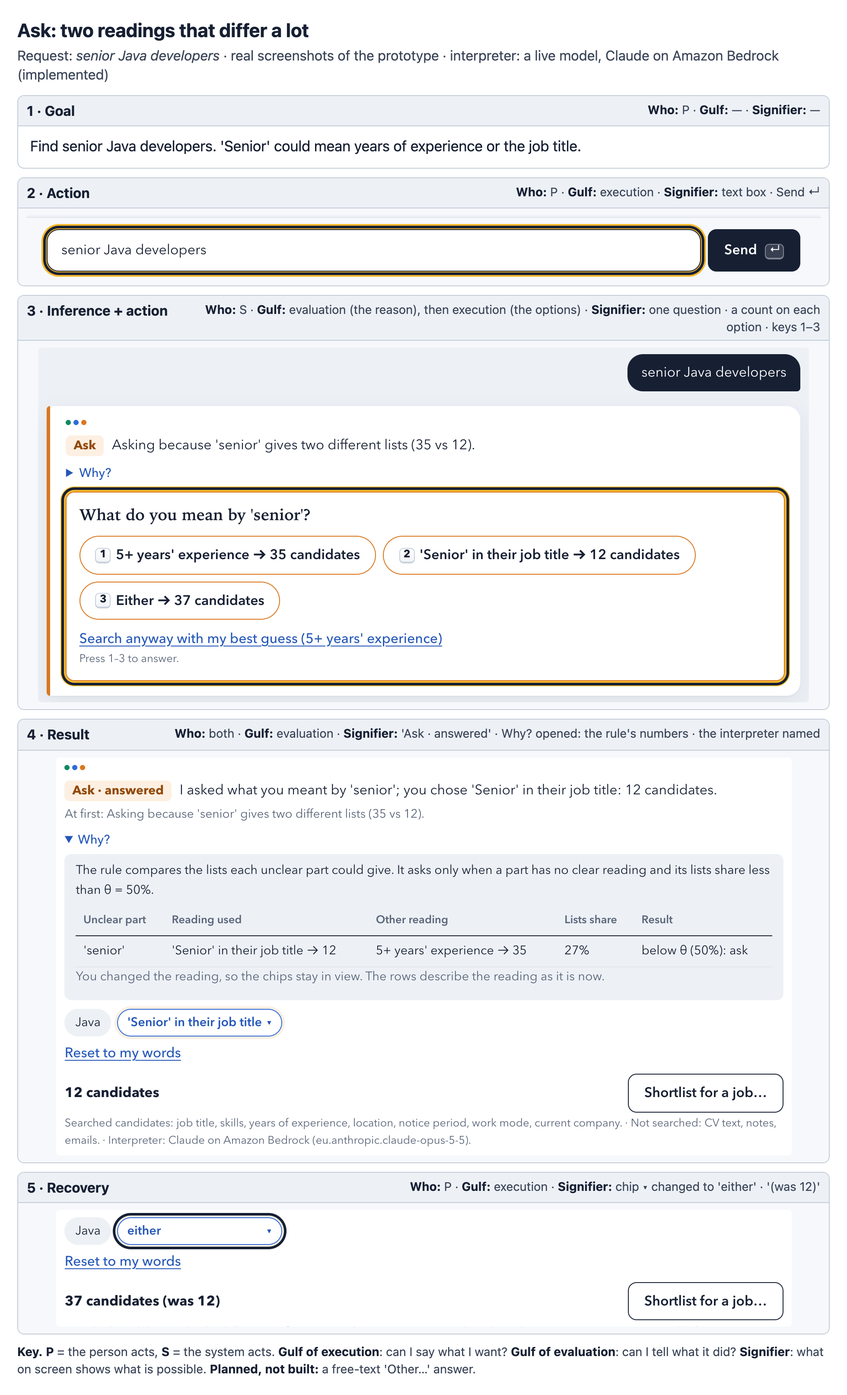
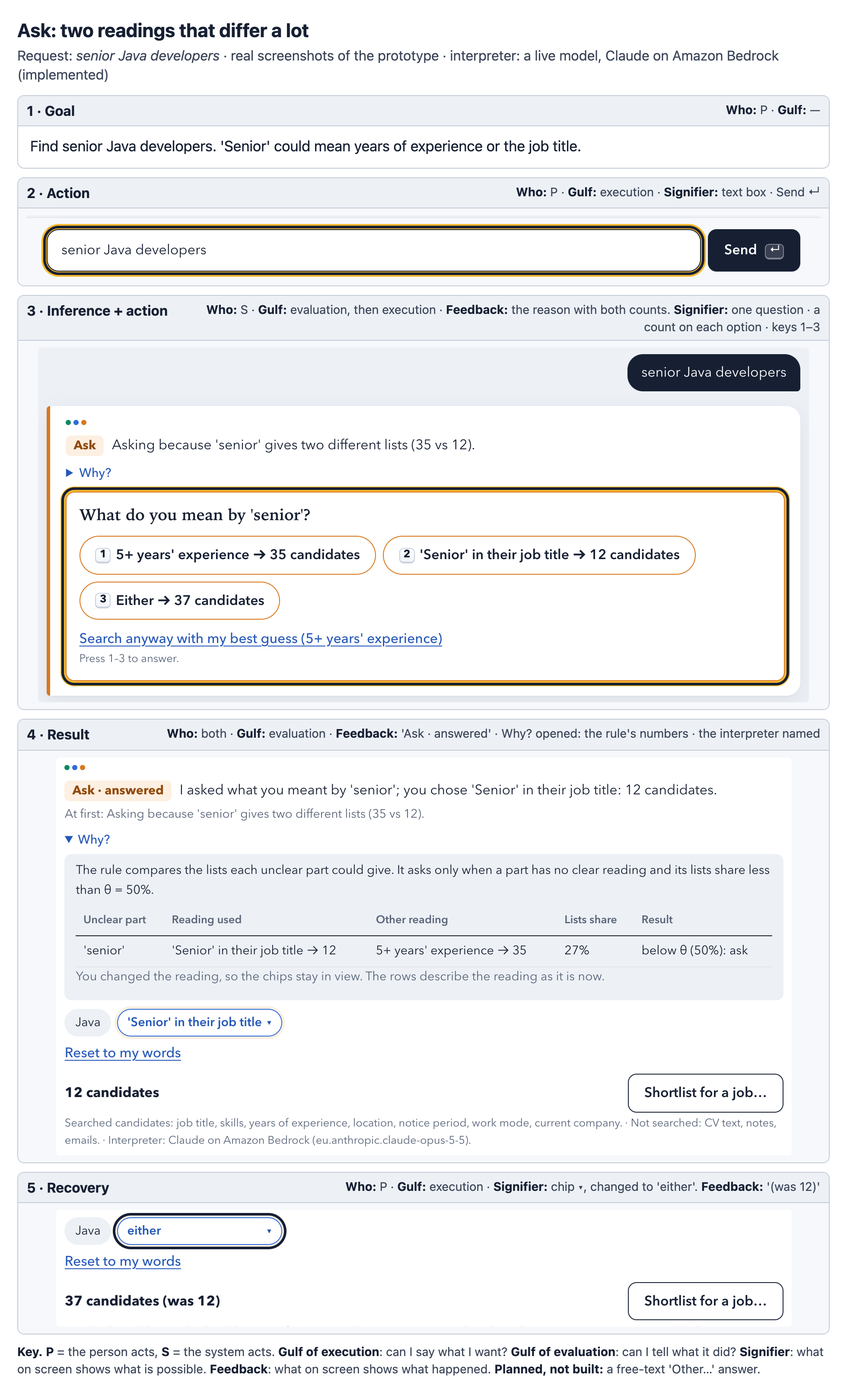
docs: storyboard labels separate signifier from feedback; who ran each check (#79)
Frames whose gulf is evaluation now list feedback, not signifiers (W2 L06). The README says the tests, lint and scripted browser checks were run by the assistant, that the frames are cropped screenshots, and links the pull request for stage 10. Refs #77.

diff --git a/docs/storyboards/storyboard-ask.html b/docs/storyboards/storyboard-ask.html
@@ -14,7 +14,7 @@ img { display: block; max-width: 100%; height: auto; border-radius: 4px; }
 </style></head><body><h1>Ask: two readings that differ a lot</h1>
 <p class="req">Request: <em>senior Java developers</em> · real screenshots of the prototype ·
 interpreter: a live model, Claude on Amazon Bedrock (implemented)</p>
-<div class="grid"><div class="frame"><div class="head"><b>1 · Goal</b><span class="tags"><b>Who:</b> P · <b>Gulf:</b> — · <b>Signifier:</b> —</span></div><div class="goal">Find senior Java developers. &#x27;Senior&#x27; could mean years of experience or the job title.</div></div><div class="frame"><div class="head"><b>2 · Action</b><span class="tags"><b>Who:</b> P · <b>Gulf:</b> execution · <b>Signifier:</b> text box · Send ↵</span></div><div class="shot"><img src="frames/ask-2-action.png" width="920" alt="Action"></div></div><div class="frame"><div class="head"><b>3 · Inference + action</b><span class="tags"><b>Who:</b> S · <b>Gulf:</b> evaluation (the reason), then execution (the options) · <b>Signifier:</b> one question · a count on each option · keys 1–3</span></div><div class="shot"><img src="frames/ask-3-system.png" width="892" alt="Inference + action"></div></div><div class="frame"><div class="head"><b>4 · Result</b><span class="tags"><b>Who:</b> both · <b>Gulf:</b> evaluation · <b>Signifier:</b> &#x27;Ask · answered&#x27; · Why? opened: the rule&#x27;s numbers · the interpreter named</span></div><div class="shot"><img src="frames/ask-4-result.png" width="851" alt="Result"></div></div><div class="frame"><div class="head"><b>5 · Recovery</b><span class="tags"><b>Who:</b> P · <b>Gulf:</b> execution · <b>Signifier:</b> chip ▾ changed to &#x27;either&#x27; · &#x27;(was 12)&#x27;</span></div><div class="shot"><img src="frames/ask-5-recovery.png" width="851" alt="Recovery"></div></div></div>
+<div class="grid"><div class="frame"><div class="head"><b>1 · Goal</b><span class="tags"><b>Who:</b> P · <b>Gulf:</b> —</span></div><div class="goal">Find senior Java developers. &#x27;Senior&#x27; could mean years of experience or the job title.</div></div><div class="frame"><div class="head"><b>2 · Action</b><span class="tags"><b>Who:</b> P · <b>Gulf:</b> execution · <b>Signifier:</b> text box · Send ↵</span></div><div class="shot"><img src="frames/ask-2-action.png" width="920" alt="Action"></div></div><div class="frame"><div class="head"><b>3 · Inference + action</b><span class="tags"><b>Who:</b> S · <b>Gulf:</b> evaluation, then execution · <b>Feedback:</b> the reason with both counts. <b>Signifier:</b> one question · a count on each option · keys 1–3</span></div><div class="shot"><img src="frames/ask-3-system.png" width="892" alt="Inference + action"></div></div><div class="frame"><div class="head"><b>4 · Result</b><span class="tags"><b>Who:</b> both · <b>Gulf:</b> evaluation · <b>Feedback:</b> &#x27;Ask · answered&#x27; · Why? opened: the rule&#x27;s numbers · the interpreter named</span></div><div class="shot"><img src="frames/ask-4-result.png" width="851" alt="Result"></div></div><div class="frame"><div class="head"><b>5 · Recovery</b><span class="tags"><b>Who:</b> P · <b>Gulf:</b> execution · <b>Signifier:</b> chip ▾, changed to &#x27;either&#x27;. <b>Feedback:</b> &#x27;(was 12)&#x27;</span></div><div class="shot"><img src="frames/ask-5-recovery.png" width="851" alt="Recovery"></div></div></div>
 <p class="key"><b>Key.</b> <b>P</b> = the person acts, <b>S</b> = the system acts. <b>Gulf of execution</b>: can I say
 what I want? <b>Gulf of evaluation</b>: can I tell what it did? <b>Signifier</b>: what on screen shows what is
-possible. <b>Planned, not built:</b> a free-text 'Other…' answer.</p></body></html>
+possible. <b>Feedback</b>: what on screen shows what happened. <b>Planned, not built:</b> a free-text 'Other…' answer.</p></body></html>

diff --git a/docs/storyboards/storyboard-write.html b/docs/storyboards/storyboard-write.html
@@ -14,7 +14,7 @@ img { display: block; max-width: 100%; height: auto; border-radius: 4px; }
 </style></head><body><h1>Act, then a change to records: confirmed, then undone</h1>
 <p class="req">Request: <em>Java developers in London → shortlist them for the Senior Backend Engineer role</em> · real screenshots of the prototype ·
 interpreter: rule-based stand-in (simulated)</p>
-<div class="grid"><div class="frame"><div class="head"><b>1 · Goal</b><span class="tags"><b>Who:</b> P · <b>Gulf:</b> — · <b>Signifier:</b> —</span></div><div class="goal">Put the Java developers in London on one job&#x27;s shortlist, and change nothing else.</div></div><div class="frame"><div class="head"><b>2 · Action</b><span class="tags"><b>Who:</b> S, then P · <b>Gulf:</b> evaluation, then execution · <b>Signifier:</b> Act tag and its reason · 21 candidates · text box (a follow-up, not a new search)</span></div><div class="shot"><img src="frames/write-2-action.png" width="920" alt="Action"></div></div><div class="frame"><div class="head"><b>3 · Inference + action</b><span class="tags"><b>Who:</b> S · <b>Gulf:</b> evaluation · <b>Signifier:</b> job chosen · every change listed · Cancel focused</span></div><div class="shot"><img src="frames/write-3-system.png" width="576" alt="Inference + action"></div></div><div class="frame"><div class="head"><b>4 · Result</b><span class="tags"><b>Who:</b> S · <b>Gulf:</b> evaluation · <b>Signifier:</b> what was confirmed · the result only · Undo</span></div><div class="shot"><img src="frames/write-4-result.png" width="892" alt="Result"></div></div><div class="frame"><div class="head"><b>5 · Recovery</b><span class="tags"><b>Who:</b> P · <b>Gulf:</b> execution · <b>Signifier:</b> Undo</span></div><div class="shot"><img src="frames/write-5-recovery.png" width="892" alt="Recovery"></div></div></div>
+<div class="grid"><div class="frame"><div class="head"><b>1 · Goal</b><span class="tags"><b>Who:</b> P · <b>Gulf:</b> —</span></div><div class="goal">Put the Java developers in London on one job&#x27;s shortlist, and change nothing else.</div></div><div class="frame"><div class="head"><b>2 · Action</b><span class="tags"><b>Who:</b> S, then P · <b>Gulf:</b> evaluation, then execution · <b>Feedback:</b> Act tag and its reason · 21 candidates. <b>Signifier:</b> text box (a follow-up)</span></div><div class="shot"><img src="frames/write-2-action.png" width="920" alt="Action"></div></div><div class="frame"><div class="head"><b>3 · Inference + action</b><span class="tags"><b>Who:</b> S · <b>Gulf:</b> evaluation, then execution · <b>Feedback:</b> job chosen · every change listed. <b>Signifier:</b> Cancel (focused) · Shortlist 21 candidates</span></div><div class="shot"><img src="frames/write-3-system.png" width="576" alt="Inference + action"></div></div><div class="frame"><div class="head"><b>4 · Result</b><span class="tags"><b>Who:</b> S · <b>Gulf:</b> evaluation · <b>Feedback:</b> what was confirmed · the result only. <b>Signifier:</b> Undo</span></div><div class="shot"><img src="frames/write-4-result.png" width="892" alt="Result"></div></div><div class="frame"><div class="head"><b>5 · Recovery</b><span class="tags"><b>Who:</b> P · <b>Gulf:</b> execution · <b>Signifier:</b> Undo (used). <b>Feedback:</b> what was undone</span></div><div class="shot"><img src="frames/write-5-recovery.png" width="892" alt="Recovery"></div></div></div>
 <p class="key"><b>Key.</b> <b>P</b> = the person acts, <b>S</b> = the system acts. <b>Gulf of execution</b>: can I say
 what I want? <b>Gulf of evaluation</b>: can I tell what it did? <b>Signifier</b>: what on screen shows what is
-possible.</p></body></html>
+possible. <b>Feedback</b>: what on screen shows what happened.</p></body></html>

diff --git a/docs/storyboards/storyboard-show.html b/docs/storyboards/storyboard-show.html
@@ -14,7 +14,7 @@ img { display: block; max-width: 100%; height: auto; border-radius: 4px; }
 </style></head><body><h1>Show: the request that started the project</h1>
 <p class="req">Request: <em>Python and AWS people with Senior in the title</em> · real screenshots of the prototype ·
 interpreter: rule-based stand-in (simulated)</p>
-<div class="grid"><div class="frame"><div class="head"><b>1 · Goal</b><span class="tags"><b>Who:</b> P · <b>Gulf:</b> — · <b>Signifier:</b> —</span></div><div class="goal">Find people with Python and AWS whose job title says Senior. (An assistant once widened this &#x27;and&#x27; to OR without saying so.)</div></div><div class="frame"><div class="head"><b>2 · Action</b><span class="tags"><b>Who:</b> P · <b>Gulf:</b> execution · <b>Signifier:</b> text box · Send ↵</span></div><div class="shot"><img src="frames/show-2-action.png" width="920" alt="Action"></div></div><div class="frame"><div class="head"><b>3 · Inference + action</b><span class="tags"><b>Who:</b> S · <b>Gulf:</b> evaluation · <b>Signifier:</b> Show tag · reason with both counts · AND ⇄ OR chip</span></div><div class="shot"><img src="frames/show-3-system.png" width="892" alt="Inference + action"></div></div><div class="frame"><div class="head"><b>4 · Result</b><span class="tags"><b>Who:</b> S · <b>Gulf:</b> evaluation · <b>Signifier:</b> 7 candidates · what was not searched</span></div><div class="shot"><img src="frames/show-4-result.png" width="851" alt="Result"></div></div><div class="frame"><div class="head"><b>5 · Recovery</b><span class="tags"><b>Who:</b> P · <b>Gulf:</b> execution · <b>Signifier:</b> AND ⇄ OR chip · &#x27;(was 7)&#x27;</span></div><div class="shot"><img src="frames/show-5-recovery.png" width="851" alt="Recovery"></div></div></div>
+<div class="grid"><div class="frame"><div class="head"><b>1 · Goal</b><span class="tags"><b>Who:</b> P · <b>Gulf:</b> —</span></div><div class="goal">Find people with Python and AWS whose job title says Senior. (An assistant once widened this &#x27;and&#x27; to OR without saying so.)</div></div><div class="frame"><div class="head"><b>2 · Action</b><span class="tags"><b>Who:</b> P · <b>Gulf:</b> execution · <b>Signifier:</b> text box · Send ↵</span></div><div class="shot"><img src="frames/show-2-action.png" width="920" alt="Action"></div></div><div class="frame"><div class="head"><b>3 · Inference + action</b><span class="tags"><b>Who:</b> S · <b>Gulf:</b> evaluation · <b>Feedback:</b> Show tag · the reason with both counts. <b>Signifier:</b> AND ⇄ OR chip</span></div><div class="shot"><img src="frames/show-3-system.png" width="892" alt="Inference + action"></div></div><div class="frame"><div class="head"><b>4 · Result</b><span class="tags"><b>Who:</b> S · <b>Gulf:</b> evaluation · <b>Feedback:</b> 7 candidates (first 4 rows shown) · what was not searched</span></div><div class="shot"><img src="frames/show-4-result.png" width="851" alt="Result"></div></div><div class="frame"><div class="head"><b>5 · Recovery</b><span class="tags"><b>Who:</b> P · <b>Gulf:</b> execution · <b>Signifier:</b> AND ⇄ OR chip. <b>Feedback:</b> &#x27;(was 7)&#x27;</span></div><div class="shot"><img src="frames/show-5-recovery.png" width="851" alt="Recovery"></div></div></div>
 <p class="key"><b>Key.</b> <b>P</b> = the person acts, <b>S</b> = the system acts. <b>Gulf of execution</b>: can I say
 what I want? <b>Gulf of evaluation</b>: can I tell what it did? <b>Signifier</b>: what on screen shows what is
-possible.</p></body></html>
+possible. <b>Feedback</b>: what on screen shows what happened.</p></body></html>

diff --git a/docs/storyboards/make_storyboards.py b/docs/storyboards/make_storyboards.py
@@ -4,9 +4,11 @@
 
 Each storyboard has five frames (W2 L06): the goal, the person's action, the system's inference and
 action, the result, and recovery. Each frame is labelled with who acts (P = person, S = system), the
-gulf involved, and the signifier on screen. The frames are unedited screenshots of the running
-prototype (θ = 0.5, fresh state), taken at twice the pixel density. Two storyboards use the default
-rule-based stand-in; the ask storyboard uses a live model (Claude through Amazon Bedrock), and its
+gulf involved, and what is on screen: a signifier (what is possible) where the gulf is execution,
+feedback (what happened) where it is evaluation. The frames are screenshots of the running prototype
+(θ = 0.5, fresh state), cropped to the step and not otherwise edited, at twice the pixel density.
+Two storyboards use the default rule-based stand-in; the ask storyboard uses a live model (Claude
+through Amazon Bedrock), and its
 result frame shows the interpreter line the page prints. The frames are stacked in one column so the
 text stays readable on a portrait A4 page. Open each HTML file and save it as PNG at twice the pixel
 density; the PNGs in this folder were captured that way.
@@ -23,34 +25,39 @@ STORYBOARDS = {
     "show": ("Show: the request that started the project", "Python and AWS people with Senior in the title",
              STAND_IN, "", [
         ("Goal", "Find people with Python and AWS whose job title says Senior. "
-                 "(An assistant once widened this 'and' to OR without saying so.)", "P", "—", "—"),
-        ("Action", "frames/show-2-action.png", "P", "execution", "text box · Send ↵"),
+                 "(An assistant once widened this 'and' to OR without saying so.)", "P", "—", ""),
+        ("Action", "frames/show-2-action.png", "P", "execution", "Signifier: text box · Send ↵"),
         ("Inference + action", "frames/show-3-system.png", "S", "evaluation",
-         "Show tag · reason with both counts · AND ⇄ OR chip"),
-        ("Result", "frames/show-4-result.png", "S", "evaluation", "7 candidates · what was not searched"),
-        ("Recovery", "frames/show-5-recovery.png", "P", "execution", "AND ⇄ OR chip · '(was 7)'"),
+         "Feedback: Show tag · the reason with both counts. Signifier: AND ⇄ OR chip"),
+        ("Result", "frames/show-4-result.png", "S", "evaluation",
+         "Feedback: 7 candidates (first 4 rows shown) · what was not searched"),
+        ("Recovery", "frames/show-5-recovery.png", "P", "execution",
+         "Signifier: AND ⇄ OR chip. Feedback: '(was 7)'"),
     ]),
     "ask": ("Ask: two readings that differ a lot", "senior Java developers", LIVE,
             " <b>Planned, not built:</b> a free-text 'Other…' answer.", [
         ("Goal", "Find senior Java developers. 'Senior' could mean years of experience or the job title.",
-         "P", "—", "—"),
-        ("Action", "frames/ask-2-action.png", "P", "execution", "text box · Send ↵"),
-        ("Inference + action", "frames/ask-3-system.png", "S", "evaluation (the reason), then execution (the options)",
-         "one question · a count on each option · keys 1–3"),
+         "P", "—", ""),
+        ("Action", "frames/ask-2-action.png", "P", "execution", "Signifier: text box · Send ↵"),
+        ("Inference + action", "frames/ask-3-system.png", "S", "evaluation, then execution",
+         "Feedback: the reason with both counts. Signifier: one question · a count on each option · keys 1–3"),
         ("Result", "frames/ask-4-result.png", "both", "evaluation",
-         "'Ask · answered' · Why? opened: the rule's numbers · the interpreter named"),
-        ("Recovery", "frames/ask-5-recovery.png", "P", "execution", "chip ▾ changed to 'either' · '(was 12)'"),
+         "Feedback: 'Ask · answered' · Why? opened: the rule's numbers · the interpreter named"),
+        ("Recovery", "frames/ask-5-recovery.png", "P", "execution",
+         "Signifier: chip ▾, changed to 'either'. Feedback: '(was 12)'"),
     ]),
     "write": ("Act, then a change to records: confirmed, then undone",
               "Java developers in London → shortlist them for the Senior Backend Engineer role", STAND_IN, "", [
         ("Goal", "Put the Java developers in London on one job's shortlist, and change nothing else.",
-         "P", "—", "—"),
+         "P", "—", ""),
         ("Action", "frames/write-2-action.png", "S, then P", "evaluation, then execution",
-         "Act tag and its reason · 21 candidates · text box (a follow-up, not a new search)"),
-        ("Inference + action", "frames/write-3-system.png", "S", "evaluation",
-         "job chosen · every change listed · Cancel focused"),
-        ("Result", "frames/write-4-result.png", "S", "evaluation", "what was confirmed · the result only · Undo"),
-        ("Recovery", "frames/write-5-recovery.png", "P", "execution", "Undo"),
+         "Feedback: Act tag and its reason · 21 candidates. Signifier: text box (a follow-up)"),
+        ("Inference + action", "frames/write-3-system.png", "S", "evaluation, then execution",
+         "Feedback: job chosen · every change listed. Signifier: Cancel (focused) · Shortlist 21 candidates"),
+        ("Result", "frames/write-4-result.png", "S", "evaluation",
+         "Feedback: what was confirmed · the result only. Signifier: Undo"),
+        ("Recovery", "frames/write-5-recovery.png", "P", "execution",
+         "Signifier: Undo (used). Feedback: what was undone"),
     ]),
 }
 
@@ -73,7 +80,7 @@ interpreter: {interpreter}</p>
 <div class="grid">{frames}</div>
 <p class="key"><b>Key.</b> <b>P</b> = the person acts, <b>S</b> = the system acts. <b>Gulf of execution</b>: can I say
 what I want? <b>Gulf of evaluation</b>: can I tell what it did? <b>Signifier</b>: what on screen shows what is
-possible.{note}</p></body></html>"""
+possible. <b>Feedback</b>: what on screen shows what happened.{note}</p></body></html>"""
 
 
 def shown_width(path):
@@ -82,16 +89,24 @@ def shown_width(path):
         return struct.unpack(">I", f.read(24)[16:20])[0] // 2
 
 
-def frame(i, step, content, who, gulf, signifier):
-    """One labelled cell: a screenshot (or the goal in words) with who acts, the gulf and the signifier."""
+def cues(text):
+    """'Signifier: a. Feedback: b' with the two labels in bold."""
+    out = html.escape(text)
+    for label in ("Signifier:", "Feedback:"):
+        out = out.replace(label, "<b>%s</b>" % label)
+    return out
+
+
+def frame(i, step, content, who, gulf, cue):
+    """One labelled cell: a screenshot (or the goal in words) with who acts, the gulf, and what is on screen."""
     if content.endswith(".png"):
         body = ('<div class="shot"><img src="%s" width="%d" alt="%s"></div>'
                 % (content, shown_width(content), html.escape(step)))
     else:
         body = '<div class="goal">%s</div>' % html.escape(content)
+    tail = " · " + cues(cue) if cue else ""
     return ('<div class="frame"><div class="head"><b>%d · %s</b><span class="tags"><b>Who:</b> %s · '
-            '<b>Gulf:</b> %s · <b>Signifier:</b> %s</span></div>%s</div>'
-            % (i, html.escape(step), who, gulf, html.escape(signifier), body))
+            '<b>Gulf:</b> %s%s</span></div>%s</div>' % (i, html.escape(step), who, gulf, tail, body))
 
 
 if __name__ == "__main__":

diff --git a/README.md b/README.md
@@ -143,20 +143,21 @@ reading is assumed). Method, tables and limits are in [`evaluation/README.md`](e
 The starting point: an assistant over a recruitment CRM silently widened a user's "and" to OR and
 claimed a notes search it never ran. Each pull request records what changed, why, and how it was
 checked. "Review" means a Claude Code pass with the `review-change` checklist
-([#12](https://github.com/ar-pavel/ambiguity-aware-ai-search/pull/12)), followed by my own check in the browser.
+([#12](https://github.com/ar-pavel/ambiguity-aware-ai-search/pull/12)), followed by my own check in the browser. The tests, lint and scripted browser
+checks in the last column were run by the assistant.
 
 | Stage | What changed, and why | What was checked |
 |---|---|---|
 | **1. Search, reading and rule** [#9](https://github.com/ar-pavel/ambiguity-aware-ai-search/pull/9), [#10](https://github.com/ar-pavel/ambiguity-aware-ai-search/pull/10), [#11](https://github.com/ar-pavel/ambiguity-aware-ai-search/pull/11) | Explicit filters, not embeddings, so every result can be explained. A hand-set threshold, not a learned policy, because which strategy works better is the open question. | Tests for the search and the rule. The data is generated so that "senior" really is ambiguous. |
 | **2. The page and the three modes** [#13](https://github.com/ar-pavel/ambiguity-aware-ai-search/pull/13), [#14](https://github.com/ar-pavel/ambiguity-aware-ai-search/pull/14), [#19](https://github.com/ar-pavel/ambiguity-aware-ai-search/pull/19), [#20](https://github.com/ar-pavel/ambiguity-aware-ai-search/pull/20), [#21](https://github.com/ar-pavel/ambiguity-aware-ai-search/pull/21) | Act, show (editable chips) and ask (one question). A strategy switch and a θ slider give the study its conditions; every turn is logged. | A security review found that another web page could send requests to the server. It now answers only its own page. |
-| **3. Live interpreters** [#16](https://github.com/ar-pavel/ambiguity-aware-ai-search/pull/16), [#18](https://github.com/ar-pavel/ambiguity-aware-ai-search/pull/18) | The first draft used the Claude SDK. I replaced it with plain HTTPS, because the SDK needs Python 3.10+ and an install. | Review found three ways a reply could mislead the page: a skill matched inside another word, an unknown place matching nobody, a malformed reply crashing the page. Each got a test, then a fix. Faked replies test that every failure falls back to the stand-in. |
+| **3. Live interpreters** [#16](https://github.com/ar-pavel/ambiguity-aware-ai-search/pull/16), [#18](https://github.com/ar-pavel/ambiguity-aware-ai-search/pull/18) | The first draft used the Claude SDK. I had it replaced with plain HTTPS, because the SDK needs Python 3.10+ and an install. | Review found three ways a reply could mislead the page: a skill matched inside another word, an unknown place matching nobody, a malformed reply crashing the page. Each got a test, then a fix. Faked replies test that every failure falls back to the stand-in. |
 | **4. Jobs, companies and confirmed changes** [#29](https://github.com/ar-pavel/ambiguity-aware-ai-search/pull/29), [#30](https://github.com/ar-pavel/ambiguity-aware-ai-search/pull/30), [#32](https://github.com/ar-pavel/ambiguity-aware-ai-search/pull/32), [#33](https://github.com/ar-pavel/ambiguity-aware-ai-search/pull/33) | I widened the scope from reading to changing records, because a wrong guess costs more there. The server's own search decides which records change, and a confirmation for a search that has since changed is refused. | Two reviews found nine issues, each fixed with a test. Tests: no write without the confirmed plan; undo restores the exact state. CI runs on Python 3.8 and 3.13. |
 | **5. Why? and the chat page** [#34](https://github.com/ar-pavel/ambiguity-aware-ai-search/pull/34), [#35](https://github.com/ar-pavel/ambiguity-aware-ai-search/pull/35), [#36](https://github.com/ar-pavel/ambiguity-aware-ai-search/pull/36), [#39](https://github.com/ar-pavel/ambiguity-aware-ai-search/pull/39), [#40](https://github.com/ar-pavel/ambiguity-aware-ai-search/pull/40), [#43](https://github.com/ar-pavel/ambiguity-aware-ai-search/pull/43), [#47](https://github.com/ar-pavel/ambiguity-aware-ai-search/pull/47), [#50](https://github.com/ar-pavel/ambiguity-aware-ai-search/pull/50) | A UX review advised against a chat transcript. I chose chat but kept the reading editable in the latest reply. Using the page, I asked why a confirmed change printed the search again; its reply now states only the result. | Why? takes every number from the rule; a test checks that 49.7% is never shown as 50%. Review found Why? crediting a setting for the recruiter's own edit. Fixed, and the page checked at 1440 and 390 px. |
-| **6. Follow-ups and what cannot be searched** [#46](https://github.com/ar-pavel/ambiguity-aware-ai-search/pull/46), [#48](https://github.com/ar-pavel/ambiguity-aware-ai-search/pull/48), [#52](https://github.com/ar-pavel/ambiguity-aware-ai-search/pull/52) | A typed follow-up is itself vague (which job?), so the same rule applies. "hello" returned all 200 candidates; my first fix, a word list, was rejected in review as brittle, so the interpreter now reports what it cannot use. | Tests for greetings, names, unknown places and requests for everyone. |
+| **6. Follow-ups and what cannot be searched** [#46](https://github.com/ar-pavel/ambiguity-aware-ai-search/pull/46), [#48](https://github.com/ar-pavel/ambiguity-aware-ai-search/pull/48), [#52](https://github.com/ar-pavel/ambiguity-aware-ai-search/pull/52) | A typed follow-up is itself vague (which job?), so the same rule applies. "hello" returned all 200 candidates. The first fix, a word list, was rejected in review as brittle, so the interpreter now reports what it cannot use. | Tests for greetings, names, unknown places and requests for everyone. |
 | **7. Structure and a local model** [#54](https://github.com/ar-pavel/ambiguity-aware-ai-search/pull/54), [#56](https://github.com/ar-pavel/ambiguity-aware-ai-search/pull/56), [#58](https://github.com/ar-pavel/ambiguity-aware-ai-search/pull/58) | The code moved into the `assistant/` package. The assistant argued for a flat layout; I asked for a package. `ruff` runs in CI. | `qwen3:14b` gave the expected mode for 10 of 15 scripted requests ([table](docs/compare-qwen3-14b.md)). Four of its five misses acted where show or ask was expected: the model under-reports what is unclear. The run exposed a bug (a correct "Bluefin" dropped), fixed with a test. |
 | **8. Pre-submission review** [#61](https://github.com/ar-pavel/ambiguity-aware-ai-search/issues/61), [#62](https://github.com/ar-pavel/ambiguity-aware-ai-search/pull/62), [#69](https://github.com/ar-pavel/ambiguity-aware-ai-search/issues/69), [#71](https://github.com/ar-pavel/ambiguity-aware-ai-search/issues/71) | The code checks did not cover the operator, so a live model could still turn "and" into OR. Code now keeps AND when the user wrote *and*, *with* or *&*. A review of the report added the typed follow-up and the edit loop to the diagram and re-laid out the storyboards for print. | Tested for each word, including "Python or Rust", a case found by a review of the fix itself. |
 | **9. Scripted evaluation and Amazon Bedrock** [#73](https://github.com/ar-pavel/ambiguity-aware-ai-search/issues/73), [#74](https://github.com/ar-pavel/ambiguity-aware-ai-search/pull/74), [#75](https://github.com/ar-pavel/ambiguity-aware-ai-search/issues/75), [#76](https://github.com/ar-pavel/ambiguity-aware-ai-search/pull/76) | 42 requests, written after the rule was frozen and committed before any result. Bedrock is a fourth adapter with the same prompt, schema and checks. With a live model every chip edit waited for a second reading that could differ from the first, so each request is now read once. | The harness checks the frozen files against `v1.2-a2`. An early scripted recruiter answered and/or questions with the default option: a test now covers it and the results were re-run. Five separate live-model runs, all reported. |
-| **10. Figures and README for the revised report** [#77](https://github.com/ar-pavel/ambiguity-aware-ai-search/issues/77) | A review against the rubric found no storyboard showing an *act* reply, none using a live model, and no opened Why?. Act now opens the third storyboard and the second runs on Claude through Amazon Bedrock. The diagram separates the model path that has been run from those that have not. | The frames are new, unedited screenshots of the running prototype. Tests and ruff pass. |
+| **10. Figures and README for the revised report** [#77](https://github.com/ar-pavel/ambiguity-aware-ai-search/issues/77), [#78](https://github.com/ar-pavel/ambiguity-aware-ai-search/pull/78) | A review against the rubric found no storyboard showing an *act* reply, none using a live model, and no opened Why?. Act now opens the third storyboard and the second runs on Claude through Amazon Bedrock. The diagram separates the model path that has been run from those that have not. | The frames are new screenshots of the running prototype, cropped but not otherwise edited; each storyboard was read after rendering. Tests and ruff pass. |
 
 ## AI assistance
 
@@ -168,13 +169,14 @@ checked. "Review" means a Claude Code pass with the `review-change` checklist
 - **My part:** the research question, the design decisions and scope, and accepting, changing or
   rejecting each change. Every change went through a pull request, the review above, the tests and a
   check in the browser. The report's claims were checked against the code, the cited papers and the
-  lecture slides; the storyboard frames are unedited screenshots of the running prototype.
-- **Examples of changing or rejecting its output:**
+  lecture slides; the storyboard frames are screenshots of the running prototype, cropped but not
+  otherwise edited.
+- **Examples of reviewing and changing its output:**
   - Using the page, I asked why a confirmed shortlist printed the search results again. The reply now states only the result ([#50](https://github.com/ar-pavel/ambiguity-aware-ai-search/pull/50)).
-  - The first live interpreter used the Claude SDK; I replaced it with plain HTTPS so the project still needs nothing installed ([#16](https://github.com/ar-pavel/ambiguity-aware-ai-search/pull/16)).
+  - The first live interpreter used the Claude SDK; I had it replaced with plain HTTPS so the project still needs nothing installed ([#16](https://github.com/ar-pavel/ambiguity-aware-ai-search/pull/16)).
   - The UX review and the assistant advised against a chat transcript ([#35](https://github.com/ar-pavel/ambiguity-aware-ai-search/pull/35)); I chose chat, keeping the reading editable ([#43](https://github.com/ar-pavel/ambiguity-aware-ai-search/pull/43)).
   - The assistant argued for a flat file layout ([#54](https://github.com/ar-pavel/ambiguity-aware-ai-search/pull/54)); I asked for a package ([#56](https://github.com/ar-pavel/ambiguity-aware-ai-search/pull/56)).
-  - Review rejected my first fix for "hello" (a word list) as brittle ([#52](https://github.com/ar-pavel/ambiguity-aware-ai-search/pull/52)).
+  - The first fix for "hello" was a word list. Review showed it refused "show me all" and still dropped an unknown place silently, so I had it reworked: the interpreter now reports what it cannot use ([#52](https://github.com/ar-pavel/ambiguity-aware-ai-search/pull/52)).
 
 ## Additional files
 
